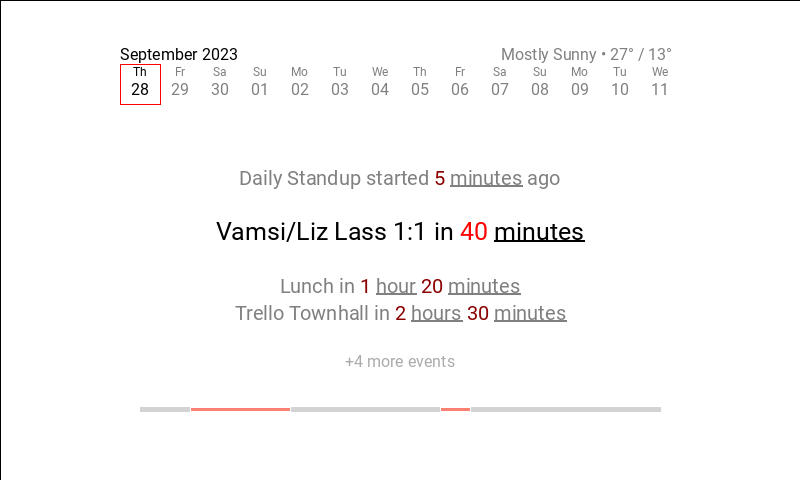
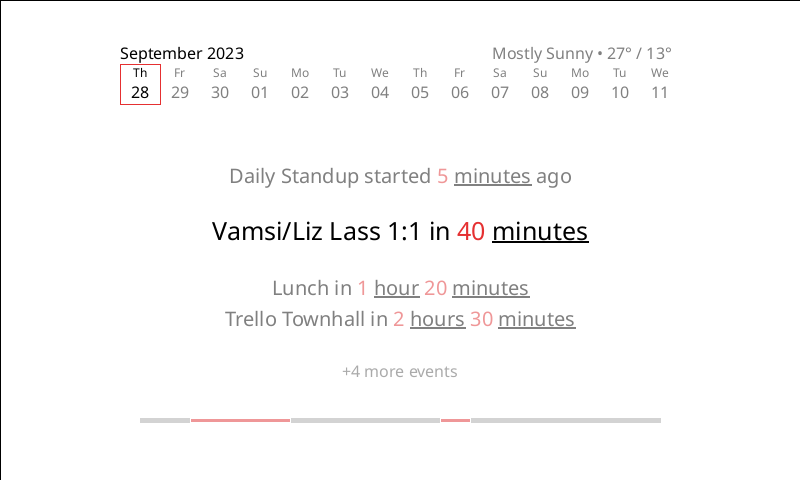
Modify colors for rendering

diff --git a/demo.py b/demo.py
@@ -13,9 +13,17 @@ HEIGHT = 480
 
 PADDING = 8  # See 8-point grid system: https://uxplanet.org/everything-you-should-know-about-8-point-grid-system-in-ux-design-b69cb945b18d
 
+PRIMARY_RED = '#e53031'
+SECONDARY_RED = '#ef9798'
+PRIMARY_BLACK = 'black'
+PRIMARY_BLANK = 'white'
+
+FONT_PATH = './fonts/NotoSans-Regular.ttf'
+
+
 def server() -> Tuple[bytes, bytes]:
-    font_helper = FontHelper('./Roboto-Regular.ttf')
-    image = Image.new('RGB', (WIDTH, HEIGHT), 'white')
+    font_helper = FontHelper(FONT_PATH)
+    image = Image.new('RGB', (WIDTH, HEIGHT), PRIMARY_BLANK)
     # seperate black & red layers
     layer = PillowBackend(image, mode=image.mode, font_helper=font_helper)
     red_layer = PillowBackend(image, mode=image.mode, font_helper=font_helper)
@@ -27,7 +35,7 @@ def server() -> Tuple[bytes, bytes]:
     # title box + summary
     event_summary = [
         TextSegment("Vamsi/Liz Lass 1:1 in "),
-        TextSegment("40 ", color='red', layer=red_layer),
+        TextSegment("40 ", color=PRIMARY_RED, layer=red_layer),
         TextSegment("minutes", underline=True)
     ]
     event_summary_bb, _ = layer.text_series(
@@ -37,9 +45,9 @@ def server() -> Tuple[bytes, bytes]:
     # Next events
     next_event_summary = [
         TextSegment("Lunch in "),
-        TextSegment("1 ", color='darkred', layer=red_layer),
+        TextSegment("1 ", color=SECONDARY_RED, layer=red_layer),
         TextSegment("hour", underline=True),
-        TextSegment(" 20 ", color='darkred', layer=red_layer),
+        TextSegment(" 20 ", color=SECONDARY_RED, layer=red_layer),
         TextSegment("minutes", underline=True)
     ]
     next_event_bb, xs = layer.text_series(
@@ -48,9 +56,9 @@ def server() -> Tuple[bytes, bytes]:
     )
     next_event_summary = [
         TextSegment("Trello Townhall in "),
-        TextSegment("2 ", color='darkred', layer=red_layer),
+        TextSegment("2 ", color=SECONDARY_RED, layer=red_layer),
         TextSegment("hours", underline=True),
-        TextSegment(" 30 ", color='darkred', layer=red_layer),
+        TextSegment(" 30 ", color=SECONDARY_RED, layer=red_layer),
         TextSegment("minutes", underline=True)
     ]
     next_event_bb, _ = layer.text_series(
@@ -65,7 +73,7 @@ def server() -> Tuple[bytes, bytes]:
     # previous event
     prev_event_summary = [
         TextSegment("Daily Standup started "),
-        TextSegment("5 ", color='darkred', layer=red_layer),
+        TextSegment("5 ", color=SECONDARY_RED, layer=red_layer),
         TextSegment("minutes", underline=True),
         TextSegment(" ago")
     ]
@@ -83,9 +91,9 @@ def server() -> Tuple[bytes, bytes]:
     cal_spans = [(50, 100), (300, 30)] # hard-coded for now; dynamic later
     for span_offset, span_width in cal_spans:
         cal_box = Box(bar.x + span_offset, bar.y, span_width, bar.height)
-        layer.fill_box(cal_box, color='white')
-        red_layer.fill_box(cal_box, color='salmon')
-        red_layer.outline_box(cal_box, color='white')
+        layer.fill_box(cal_box, color=PRIMARY_BLANK)
+        red_layer.fill_box(cal_box, color=SECONDARY_RED)
+        red_layer.outline_box(cal_box, color=PRIMARY_BLANK)
 
     # calendar/weather Header
     today = dt.date.today()
@@ -105,7 +113,7 @@ def server() -> Tuple[bytes, bytes]:
         color = 'black' if i == 0 else 'gray'
 
         if i == 0:
-            red_layer.outline_box(Box(weekday_offset, WEEKDAY_TOP_PADDING, WEEKDAY_TOTAL_WIDTH / NUM_DAYS, WEEKDAY_PADDING), color='red')
+            red_layer.outline_box(Box(weekday_offset, WEEKDAY_TOP_PADDING, WEEKDAY_TOTAL_WIDTH / NUM_DAYS, WEEKDAY_PADDING), color=PRIMARY_RED)
         layer.template_text(weekday_offset + WEEKDAY_PADDING / 2, WEEKDAY_TOP_PADDING, weekday, size=12, anchor='ma', color=color)
         layer.template_text(weekday_offset + WEEKDAY_PADDING / 2, WEEKDAY_TOP_PADDING + PADDING * 2, str(curr.day).zfill(2), size=16, anchor='ma', color=color)
         weekday_offset += WEEKDAY_TOTAL_WIDTH / NUM_DAYS
@@ -115,11 +123,11 @@ def server() -> Tuple[bytes, bytes]:
 #                    CLIENT
 ###############################################
 def client(black_bytes: bytes, red_bytes: bytes) -> Image:
-    client_image = Image.new('RGB', (WIDTH, HEIGHT), 'white')
+    client_image = Image.new('RGB', (WIDTH, HEIGHT), PRIMARY_BLANK)
     client_black_layer = ImageDraw.Draw(client_image)
     client_red_layer = ImageDraw.Draw(client_image)
-    deserialize(client_black_layer, 'Roboto-Regular.ttf', black_bytes)
-    deserialize(client_red_layer, 'Roboto-Regular.ttf', red_bytes)
+    deserialize(client_black_layer, FONT_PATH, black_bytes)
+    deserialize(client_red_layer, FONT_PATH, red_bytes)
     return client_image
     
 
